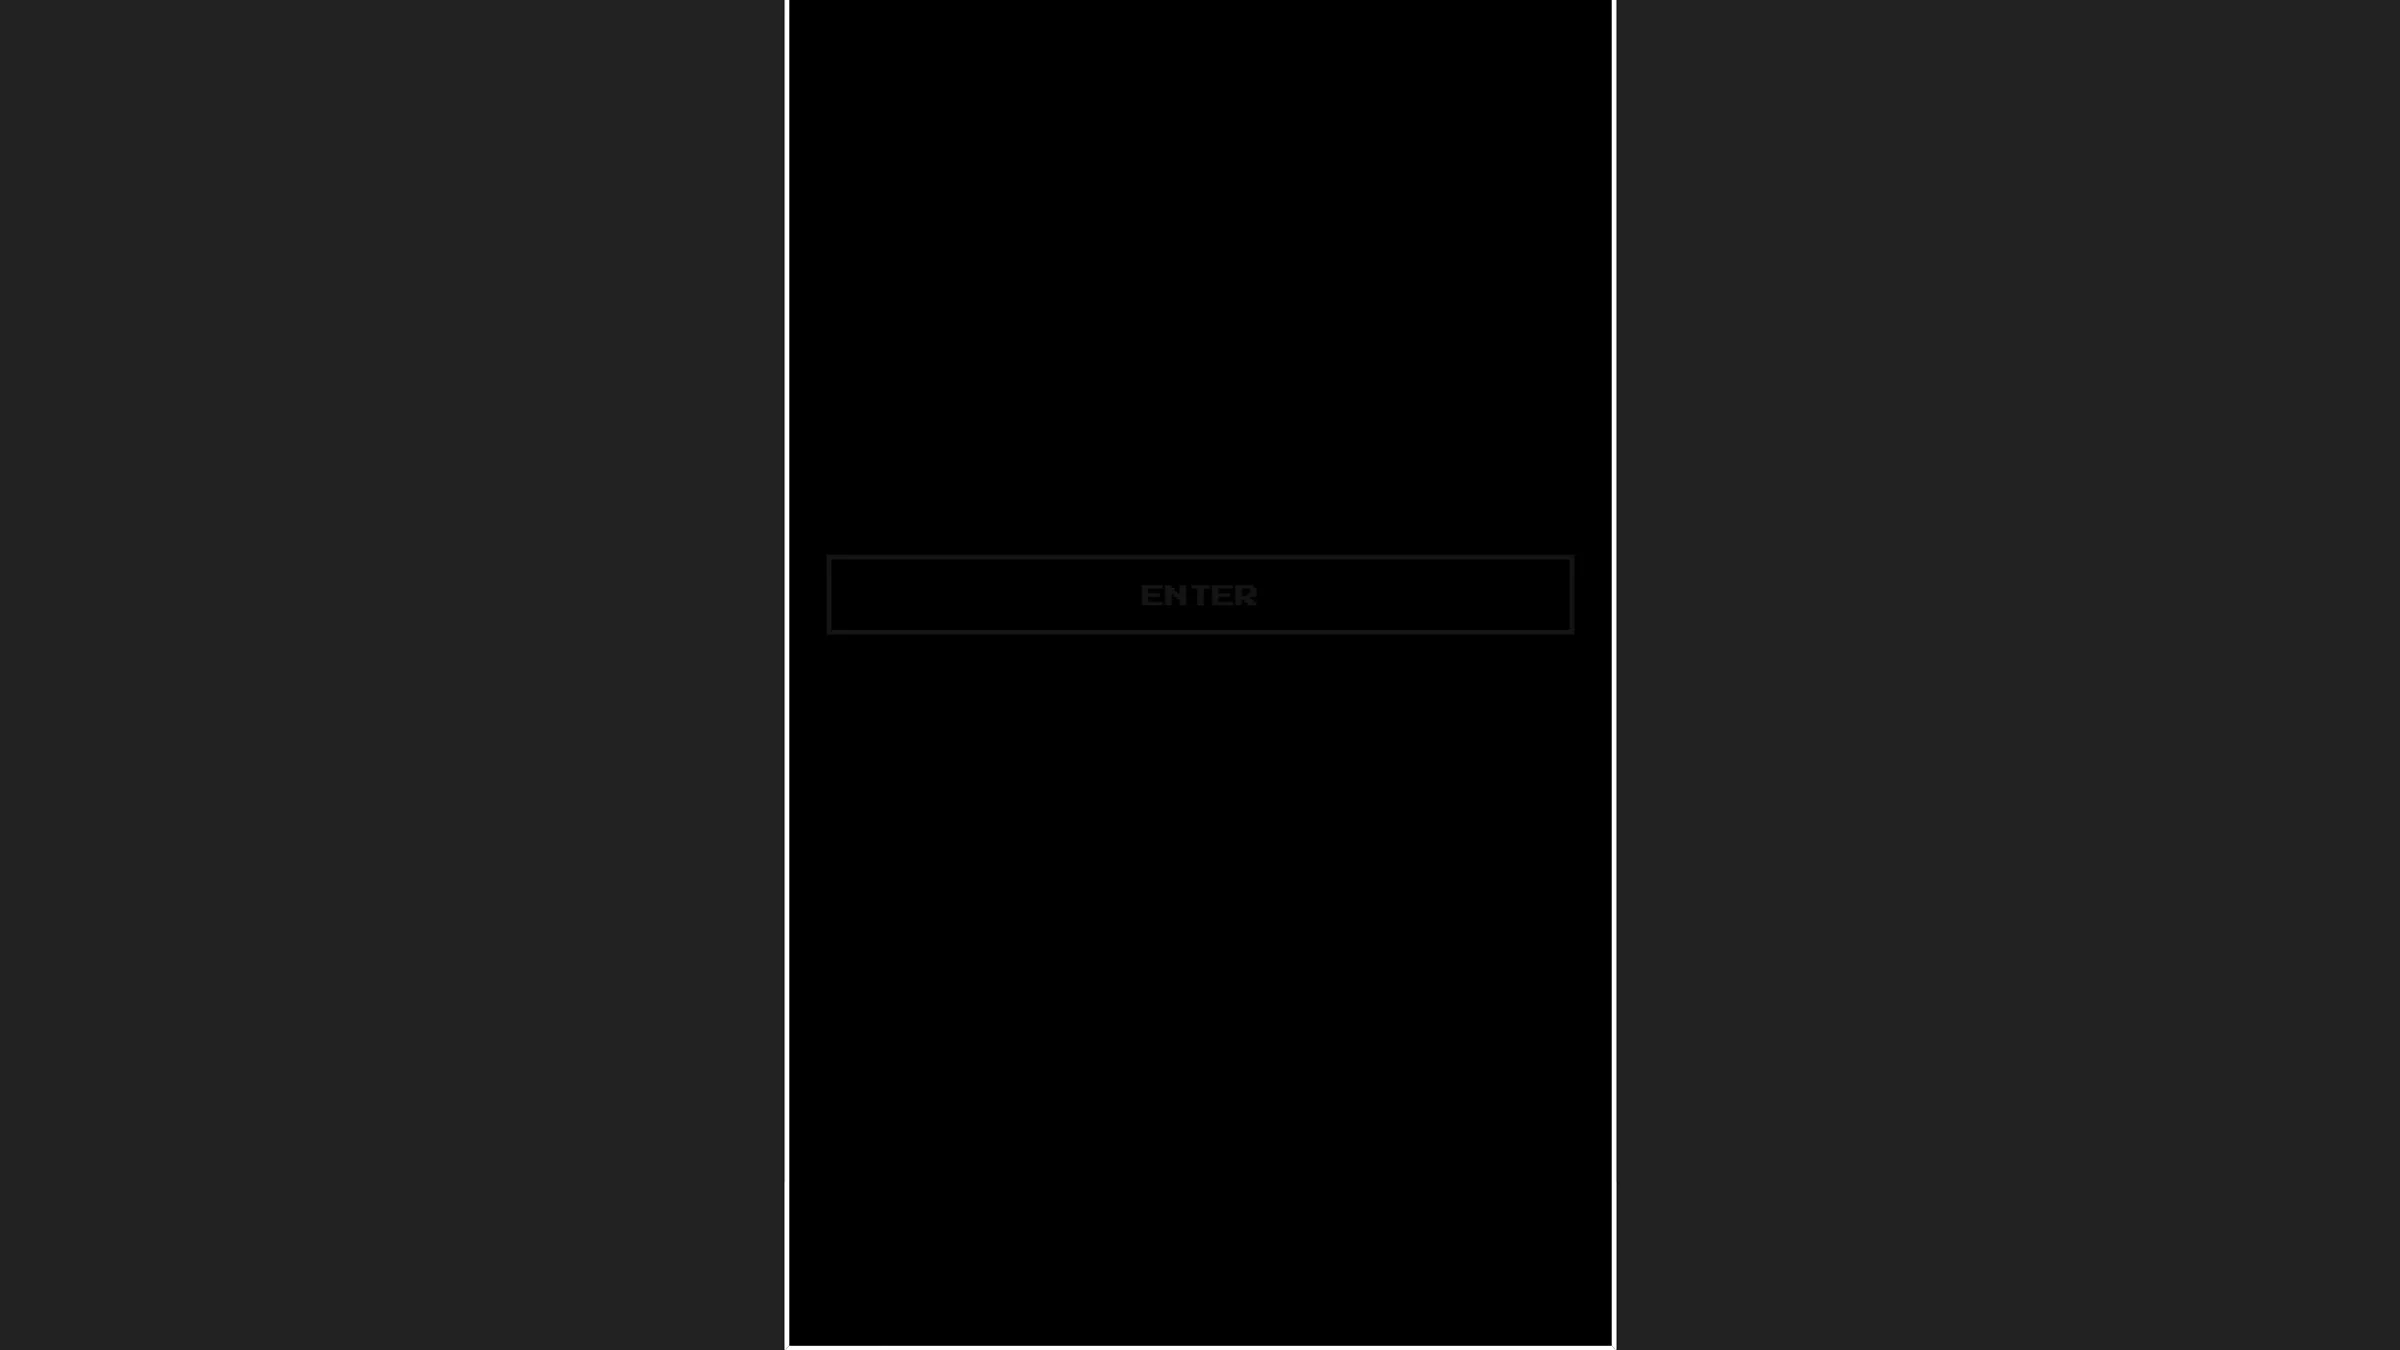
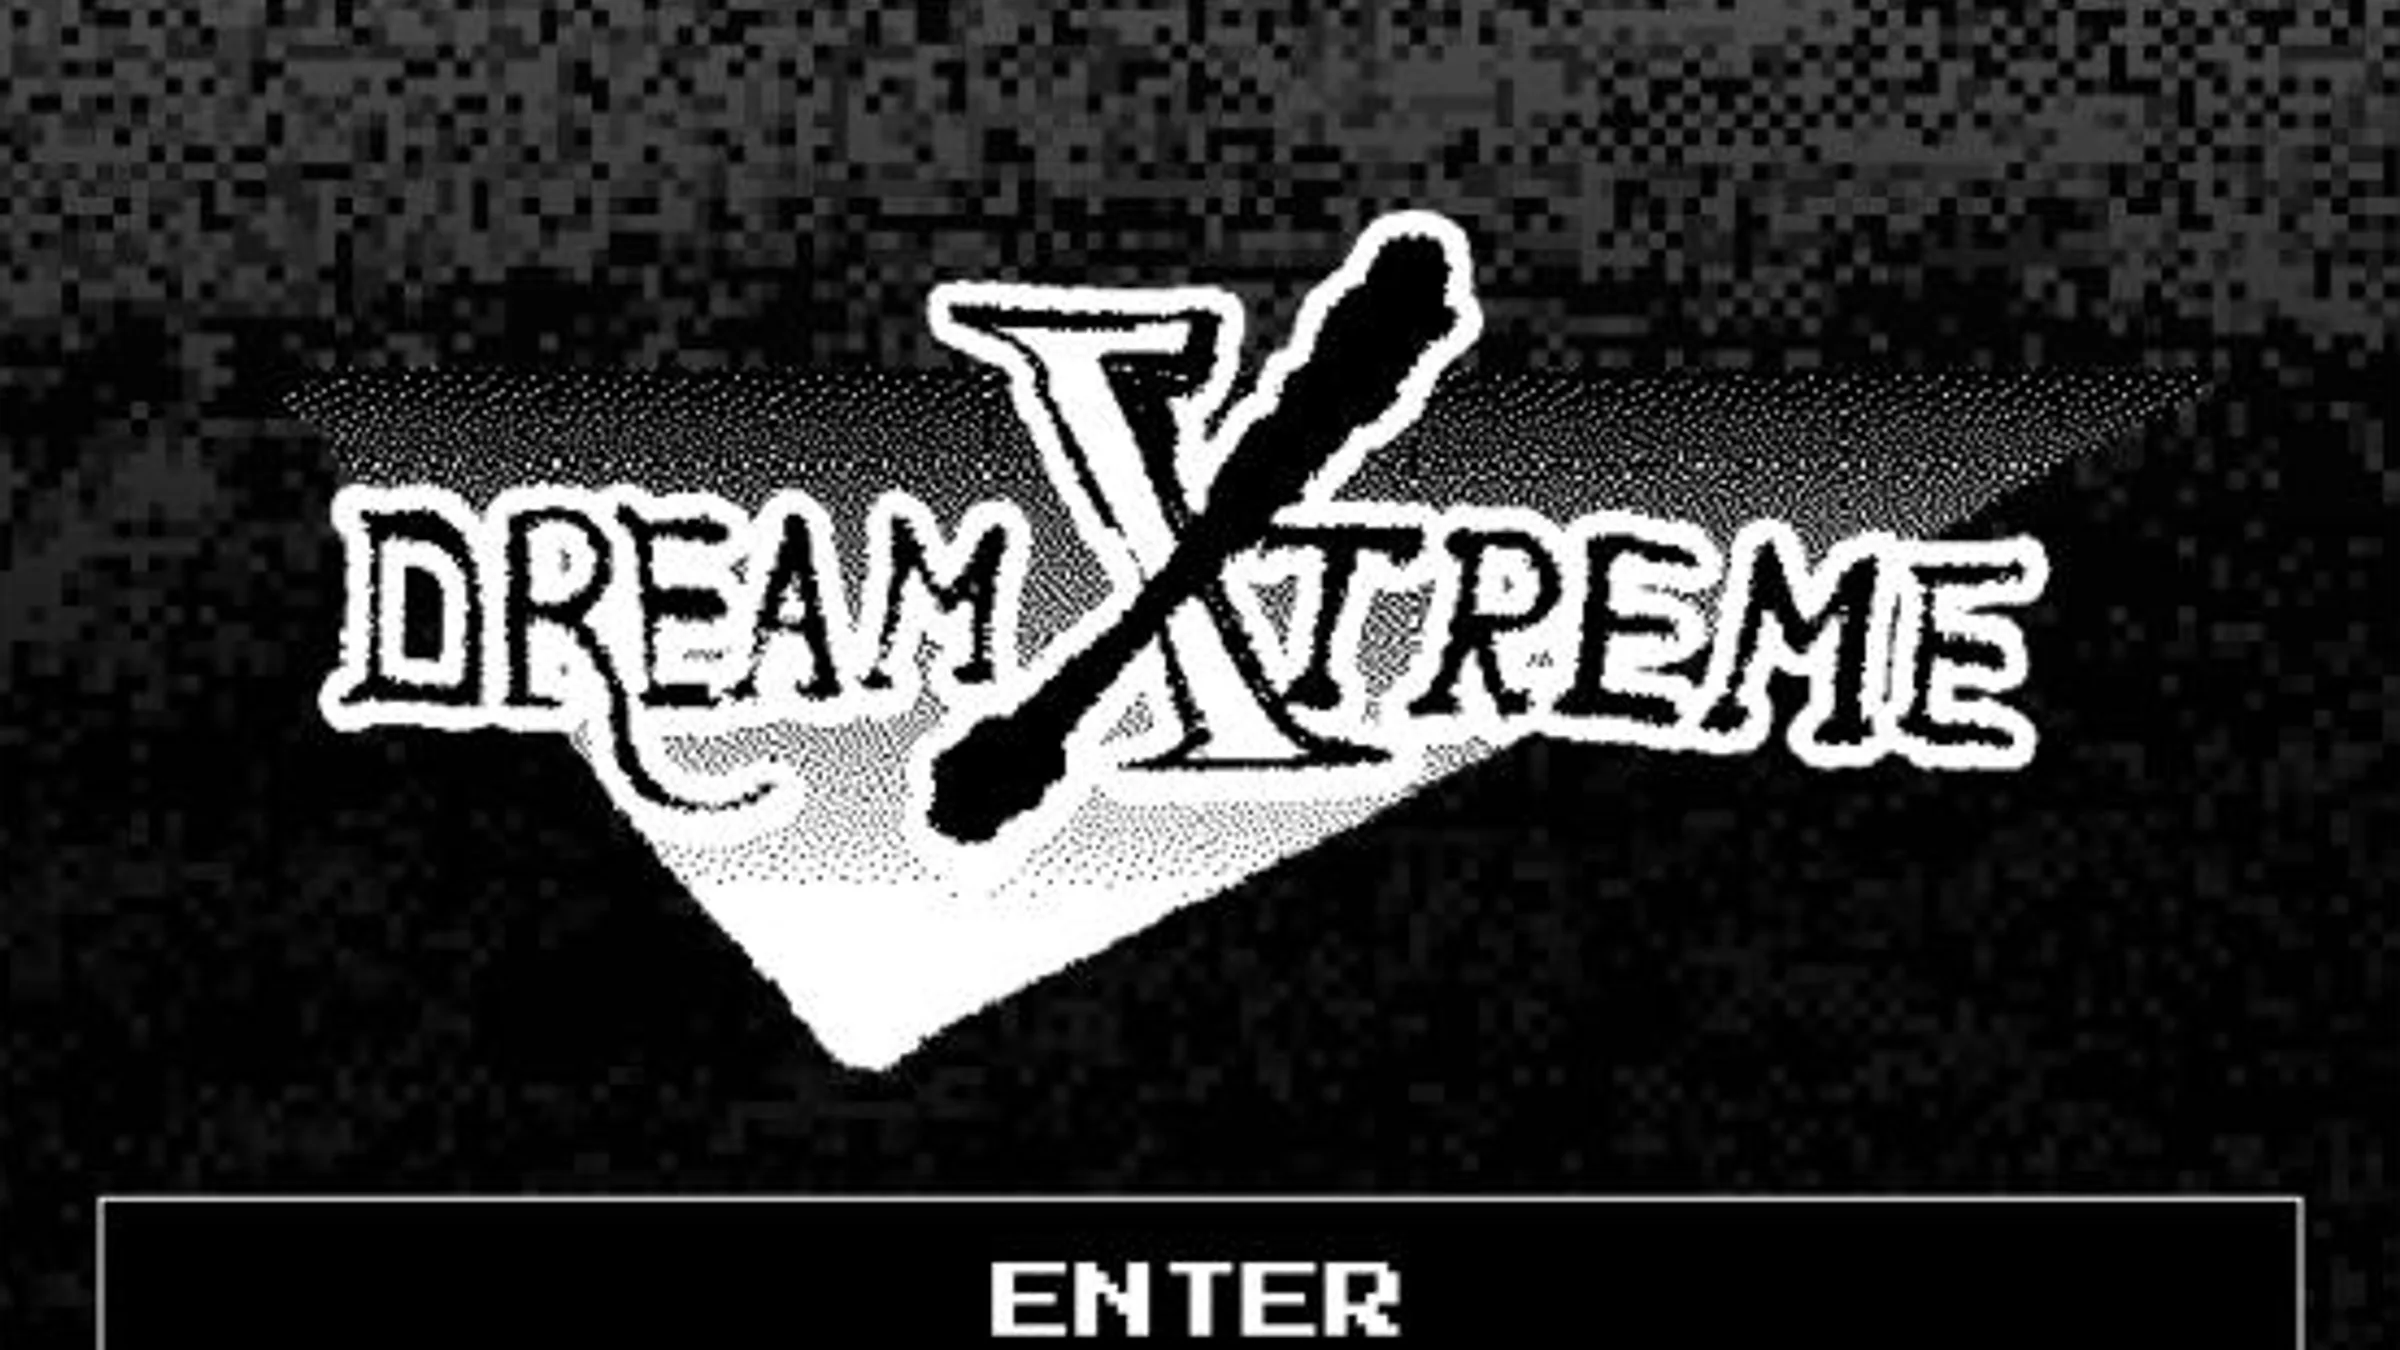
Add Inkflo and 2Dope to Interactive, drop newsletter band, retitle Education link
- New Interactive entries for Inkflo (comic scripting/layout tool) and 2Dope
  (frame-by-frame animation app), with thumb/hero screenshots pulled from the
  live apps
- Regenerate the Dream Xtreme thumbnail/hero from the game's actual title
  screen; the old one was a near-black, illegible in-game screenshot
- Remove the newsletter signup band (component, placeholder asset, and its
  CSS) site-wide
- Point the Education nav link at the LBCC Digital Media program page

diff --git a/src/styles/layout.css b/src/styles/layout.css
@@ -110,58 +110,6 @@
   background: var(--color-surface);
 }
 
-.newsletter-band {
-  padding-block: var(--space-7);
-  border-top: 1px solid var(--color-border);
-  background: var(--color-surface);
-}
-
-.newsletter-band__inner {
-  display: grid;
-  gap: var(--space-5);
-  align-items: center;
-}
-
-.newsletter-band__media {
-  aspect-ratio: 1 / 1;
-  width: 100%;
-  max-width: 160px;
-  margin-inline: auto;
-  overflow: hidden;
-  border: 1px solid var(--color-border);
-  border-radius: var(--radius-media);
-  background: var(--color-surface-alt);
-}
-
-.newsletter-band__media img {
-  width: 100%;
-  height: 100%;
-  object-fit: cover;
-}
-
-.newsletter-band__copy {
-  display: grid;
-  gap: var(--space-3);
-  justify-items: start;
-}
-
-.newsletter-band__copy h2,
-.newsletter-band__copy p {
-  margin: 0;
-}
-
-.newsletter-band__copy p {
-  max-width: 62ch;
-  color: var(--color-muted);
-}
-
-.newsletter-band__eyebrow {
-  color: var(--color-secondary);
-  font-size: var(--step--1);
-  font-weight: 800;
-  text-transform: uppercase;
-}
-
 .document-actions {
   display: flex;
   flex-wrap: wrap;
@@ -190,14 +138,5 @@
 
   .section-stack {
     gap: var(--section-gap-desktop);
-  }
-
-  .newsletter-band__inner {
-    grid-template-columns: minmax(120px, 160px) minmax(0, 1fr);
-    align-items: center;
-  }
-
-  .newsletter-band__media {
-    margin-inline: 0;
   }
 }

diff --git a/src/styles/moods.css b/src/styles/moods.css
@@ -185,7 +185,6 @@ h2 {
 
 .page-intro h1,
 .split-heading h2,
-.newsletter-band__copy h2,
 .site-footer h2 {
   position: relative;
   width: fit-content;
@@ -195,8 +194,7 @@ h2 {
 }
 
 .page-intro h1::after,
-.split-heading h2::after,
-.newsletter-band__copy h2::after {
+.split-heading h2::after {
   content: "";
   position: absolute;
   left: 0.02em;
@@ -209,7 +207,6 @@ h2 {
 }
 
 .card,
-.newsletter-band__media,
 .project-hero__image,
 .raw-post-insert,
 .motion-lightbox__panel {
@@ -218,8 +215,7 @@ h2 {
   box-shadow: var(--hand-shadow);
 }
 
-.card,
-.newsletter-band__media {
+.card {
   transform: rotate(var(--hand-frame-tilt));
 }
 
@@ -250,7 +246,6 @@ html[data-visual-mood="clean"] .bubble-field {
 }
 
 html[data-visual-mood="clean"] .page-intro h1::after,
-html[data-visual-mood="clean"] .split-heading h2::after,
-html[data-visual-mood="clean"] .newsletter-band__copy h2::after {
+html[data-visual-mood="clean"] .split-heading h2::after {
   display: none;
 }

diff --git a/src/config/site.ts b/src/config/site.ts
@@ -22,7 +22,7 @@ export const SITE_NOTICE = {
 
 export const EXTERNAL_LINKS = {
   sequential: "https://www.staytoonedgfx.com/",
-  education: "https://github.com/dustooned/lbcc-student-work"
+  education: "https://www.lbcc.edu/digitalmedia"
 };
 
 // Homepage hero. Drop a real webm video path into videoSrc when it's ready —

diff --git a/src/content/projects/inkflo.md b/src/content/projects/inkflo.md
@@ -1,0 +1,18 @@
+---
+title: "Inkflo"
+section: "interactive"
+thumbnail: "/images/interactive/inkflo/thumb.webp"
+hero: "/images/interactive/inkflo/hero.webp"
+description: "A browser-based comic-making tool. Script beats and dialogue, lay out panels, draw and letter each page, then export page images, a comic archive, or a motion comic that opens in 2Dope. Everything stays on-device."
+year: "2026"
+role: "Design & development"
+tags:
+  - tool
+  - comics
+  - education
+projectUrl: "https://dustooned.github.io/inkflo/"
+featured: false
+order: 6
+---
+
+A page-first comic editor built around one pipeline — Script, Layout, Draw, Caption, Print — so a page moves from beats and dialogue to lettered panels without leaving the browser. Exports feed directly into 2Dope for motion-comic versions.

diff --git a/src/content/projects/2dope.md b/src/content/projects/2dope.md
@@ -1,0 +1,18 @@
+---
+title: "2Dope"
+section: "interactive"
+thumbnail: "/images/interactive/2dope/thumb.webp"
+hero: "/images/interactive/2dope/hero.webp"
+description: "A browser-based frame-by-frame animation and drawing app. Story, Draw, Animate, Timing, and Motion modes share one project, with keyframe easing and pinch/tap gesture controls for pen, mouse, or finger input."
+year: "2026"
+role: "Design & development"
+tags:
+  - tool
+  - animation
+  - drawing
+projectUrl: "https://2dope.xyz/"
+featured: false
+order: 7
+---
+
+Five modes — Story, Draw, Animate, Timing, Motion — stay in one project so layers, frames, and timing never leave a single file. Work autosaves to the device and exports as a video, GIF, stills, or a project file that Inkflo can open as a motion comic.

diff --git a/docs/HANDOFF.md b/docs/HANDOFF.md
@@ -145,7 +145,6 @@ Still unfinished:
 - Contact page copy
 - CV page text
 - Resume page text
-- newsletter provider/integration (currently a static callout)
 - StayToonedGFX comics site (Walo/Masks external links are placeholders until this exists)
 
 Done:
